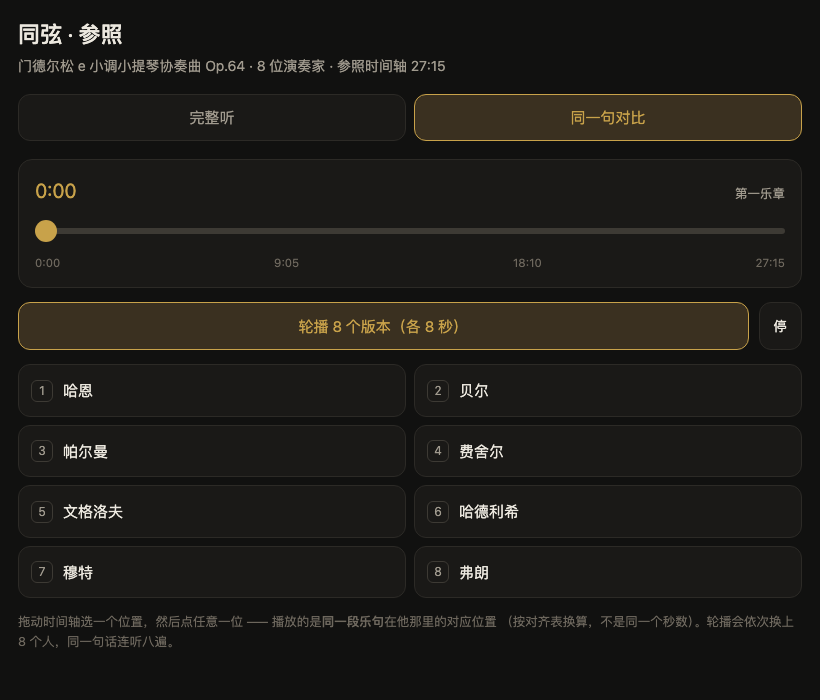
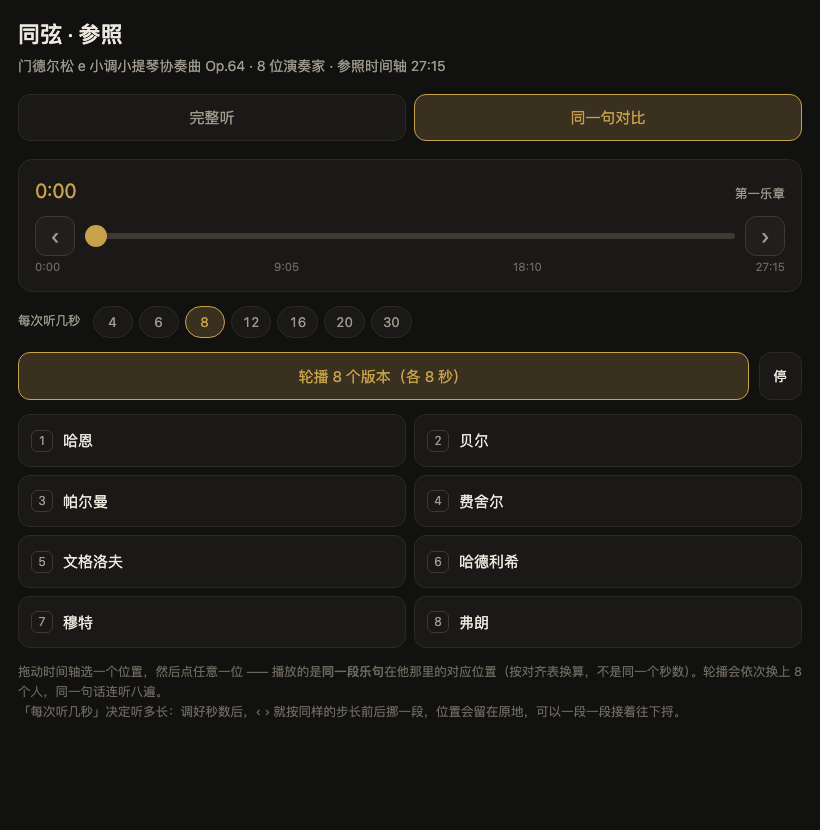
对比页：每段听几秒可选 + ‹ › 按段跳
- 时间轴从 0–100 百分比改成按秒（max=总秒数、step=1）。百分比一格约 16 秒，
  太粗，‹ › 也就没法挪「你要的那几秒」。
- 新增「每次听几秒」七档 chips（4/6/8/12/16/20/30，默认 8），选完记在本机；
  轮播按钮文案同步显示当前秒数。
- 新增 ‹ ›：按当前秒数前后挪一段并留在原地，到两端夹住；轮播中手动挪段先退出轮播。
- check_ref.py 加 3 项静态断言（控件齐全 / 滑杆按秒 / 默认值在预设表里）→ 24 项。
- README 补这两项交互说明，docs/ref-compare.png 换成新版界面。

diff --git a/web/ref.html b/web/ref.html
@@ -76,6 +76,31 @@ input[type=range]::-webkit-slider-thumb {
 }
 .marks { display: flex; justify-content: space-between; font-size: 11.5px; color: var(--faint); margin-top: 2px; }
 
+/* 滑块两侧的按段跳转：40px 见方，拇指够得着，又不会把滑块挤得太短 */
+.steprow { display: flex; align-items: center; gap: 10px; }
+.steprow input[type=range] { flex: 1; min-width: 0; }
+.stepbtn {
+  flex: 0 0 40px; width: 40px; height: 40px; padding: 0;
+  appearance: none; background: var(--panel-2); color: var(--muted);
+  border: 1px solid var(--line-strong); border-radius: 11px;
+  font: inherit; font-size: 22px; line-height: 1; cursor: pointer;
+  display: flex; align-items: center; justify-content: center;
+}
+.stepbtn:active { background: var(--gold-dim); color: var(--gold); border-color: var(--gold); }
+
+/* 「每次听几秒」：只放数字，单位在左边的标签里说一次，省宽度 */
+.durrow { display: flex; align-items: center; gap: 12px; margin-bottom: 14px; flex-wrap: wrap; }
+.durrow .tl-mov { flex: 0 0 auto; }
+.chips { display: flex; gap: 6px; flex-wrap: wrap; }
+.chip {
+  appearance: none; background: var(--panel); color: var(--muted);
+  border: 1px solid var(--line); border-radius: 999px;
+  min-width: 40px; padding: 7px 11px;
+  font: inherit; font-size: 13.5px; line-height: 1.2; cursor: pointer;
+  font-variant-numeric: tabular-nums;
+}
+.chip.on { background: var(--gold-dim); color: var(--gold); border-color: var(--gold); }
+
 .actions { display: flex; gap: 10px; margin-bottom: 14px; }
 .btn {
   flex: 1; appearance: none; background: var(--panel); color: var(--text);
@@ -121,10 +146,8 @@ input[type=range]::-webkit-slider-thumb {
   <video id="player" controls playsinline preload="metadata"></video>
   <p class="hint" id="skipNote"></p>
   <div class="list" id="rows"></div>
-  <p class="hint">点一位就开始播。8 个版本用的是同一份曲目，速度与处理各不相同 ——
-    听的时候留意：揉弦的密度、换弓的棱角、句尾怎么收。<br>
-    有的录像开头是十几秒到半分钟的静场（就位、观众入场），点开时会自动跳过，
-    并提示跳了多少；想从第一帧看就把进度条拖回 0:00。</p>
+  <p class="hint">点一位就开始播。8 个版本用的是同一份曲目，速度与处理各不相同 —— 听的时候留意：揉弦的密度、换弓的棱角、句尾怎么收。<br>
+    有的录像开头是十几秒到半分钟的静场（就位、观众入场），点开时会自动跳过，并提示跳了多少；想从第一帧看就把进度条拖回 0:00。</p>
 </section>
 
 <section id="tab-compare" hidden>
@@ -133,16 +156,24 @@ input[type=range]::-webkit-slider-thumb {
       <span class="tl-pos mono" id="posLabel">0:00</span>
       <span class="tl-mov" id="movLabel">第一乐章</span>
     </div>
-    <input type="range" id="pos" min="0" max="100" value="0" step="1">
+    <div class="steprow">
+      <button class="stepbtn" id="prevSeg" aria-label="上一段">‹</button>
+      <input type="range" id="pos" min="0" max="100" value="0" step="1">
+      <button class="stepbtn" id="nextSeg" aria-label="下一段">›</button>
+    </div>
     <div class="marks" id="marks"></div>
   </div>
+  <div class="durrow">
+    <span class="tl-mov">每次听几秒</span>
+    <div class="chips" id="segs"></div>
+  </div>
   <div class="actions">
-    <button class="btn primary" id="cycle">轮播 8 个版本（各 8 秒）</button>
+    <button class="btn primary" id="cycle">轮播 8 个版本</button>
     <button class="btn small" id="stop">停</button>
   </div>
   <div class="grid" id="picks"></div>
-  <p class="hint">拖动时间轴选一个位置，然后点任意一位 —— 播放的是<b>同一段乐句</b>在他那里的对应位置
-    （按对齐表换算，不是同一个秒数）。轮播会依次换上 8 个人，同一句话连听八遍。</p>
+  <p class="hint">拖动时间轴选一个位置，然后点任意一位 —— 播放的是<b>同一段乐句</b>在他那里的对应位置（按对齐表换算，不是同一个秒数）。轮播会依次换上 8 个人，同一句话连听八遍。<br>
+    「每次听几秒」决定听多长：调好秒数后，‹ › 就按同样的步长前后挪一段，位置会留在原地，可以一段一段接着往下捋。</p>
 </section>
 
 <script type="application/json" id="data">__DATA__</script>
@@ -153,7 +184,8 @@ input[type=range]::-webkit-slider-thumb {
   var P = D.performers;
   var W = D.warp;
   var STEP = D.warpStep || 0.5;
-  var SEG = 8;            // 对比模式每段听几秒
+  var SEG_PRESETS = [4, 6, 8, 12, 16, 20, 30];
+  var segSec = 8;         // 对比模式每段听几秒，chips 可改，记在本机
 
   function mmss(s) {
     s = Math.max(0, Math.round(s));
@@ -254,10 +286,45 @@ input[type=range]::-webkit-slider-thumb {
   var gapTimer = null;
   var cycle = false;
 
+  /* 时间轴按「秒」走，不再用 0–100 的百分比 —— 百分比一格约 16 秒，太粗，
+     ‹ › 也没法按你选的秒数精确挪。总长带小数时 max 取整，末端误差 < 1 秒。 */
+  pos.min = 0;
+  pos.max = Math.round(total);
+  pos.step = 1;
+  pos.value = 0;
+
   picks.innerHTML = P.map(function (p, i) {
     return '<button class="pick" data-i="' + i + '">' +
       '<span class="k mono">' + (i + 1) + '</span><span>' + esc(p.display) + '</span></button>';
   }).join('');
+
+  /* ---------- 每段听几秒 ---------- */
+  var segsEl = document.getElementById('segs');
+  function renderSegs() {
+    segsEl.innerHTML = SEG_PRESETS.map(function (s) {
+      return '<button class="chip' + (s === segSec ? ' on' : '') +
+        '" data-seg="' + s + '" aria-pressed="' + (s === segSec) + '">' + s + '</button>';
+    }).join('');
+    document.getElementById('cycle').textContent =
+      '轮播 ' + P.length + ' 个版本（各 ' + segSec + ' 秒）';
+  }
+  try {
+    var savedSeg = parseInt(localStorage.getItem('ss.segSec'), 10);
+    // 只认预设值：预设表改过之后，旧存档里的数字可能已经不在列表里
+    if (savedSeg && SEG_PRESETS.indexOf(savedSeg) >= 0) segSec = savedSeg;
+  } catch (e) { /* 隐私模式下 localStorage 会抛，忽略 */ }
+  renderSegs();
+
+  segsEl.addEventListener('click', function (ev) {
+    var el = ev.target.closest('[data-seg]');
+    if (!el) return;
+    var s = +el.getAttribute('data-seg');
+    if (s === segSec) return;
+    segSec = s;
+    renderSegs();
+    try { localStorage.setItem('ss.segSec', String(s)); } catch (e) { /* 同上 */ }
+    if (cur >= 0) playOne(cur, null);    // 正在听就按新时长从当前位置重来
+  });
 
   P.forEach(function (p) {
     var a = document.createElement('audio');
@@ -307,7 +374,7 @@ input[type=range]::-webkit-slider-thumb {
 
   function playOne(i, then) {
     stopAudio();
-    var t = (+pos.value / 100) * total;
+    var t = +pos.value;
     var a = audios[i];
     cur = i;
     Array.prototype.forEach.call(picks.children, function (c, k) {
@@ -320,7 +387,7 @@ input[type=range]::-webkit-slider-thumb {
       timer = setTimeout(function () {
         a.pause();
         if (then) then();
-      }, SEG * 1000);
+      }, segSec * 1000);
     };
     if (a.readyState >= 1) go();
     else a.addEventListener('loadedmetadata', function once() {
@@ -355,7 +422,7 @@ input[type=range]::-webkit-slider-thumb {
   document.getElementById('stop').addEventListener('click', stopAll);
 
   function showPos() {
-    var t = (+pos.value / 100) * total;
+    var t = +pos.value;
     posLabel.textContent = mmss(t);
     var m = D.movements.find(function (x) { return t >= x.start && t < x.end; });
     movLabel.textContent = (m && m.label) || '';
@@ -367,6 +434,19 @@ input[type=range]::-webkit-slider-thumb {
     if (cur >= 0) playOne(cur, null);
   });
   showPos();
+
+  /* ‹ › 按「你选的秒数」挪一段，而不是固定跳 30 秒 —— 这样听到哪、停在哪都和前一段对齐，
+     接着往下连听就是连续的曲子了。到两端就夹住，不会越界成负时间。 */
+  function stepBy(delta) {
+    var was = cur;                 // 轮播中手动挪段：先退出轮播，否则链路会错位
+    if (cycle) stopAll();
+    var t = Math.min(total, Math.max(0, (+pos.value) + delta));
+    pos.value = Math.round(t);
+    showPos();
+    if (was >= 0) playOne(was, null);
+  }
+  document.getElementById('prevSeg').addEventListener('click', function () { stepBy(-segSec); });
+  document.getElementById('nextSeg').addEventListener('click', function () { stepBy(+segSec); });
 
   /* ---------- tab ---------- */
   document.querySelector('.tabs').addEventListener('click', function (ev) {

diff --git a/tools/check_ref.py b/tools/check_ref.py
@@ -138,6 +138,30 @@ def main() -> int:
                 if v > 0 and v >= audio.duration(config.DIR_PCM / f"{k}.wav") - 60]
         rows.append(("跳过点未越界", f"越界 {len(over)} 位", not over))
 
+    # ---- 5 对比页交互（按秒滑杆 + ‹ › 按段跳 + 时长 chips）-------------
+    # 这三处是纯前端逻辑，模板一改坏就静默失效，真机上才会发现按钮点了没反应。
+    # 所以只做「结构还在不在」的静态断言，取值合理性靠浏览器实测。
+    need = {'prevSeg': '上一段', 'nextSeg': '下一段', 'segs': '时长选项', 'pos': '时间轴'}
+    miss = [f'{k}（{v}）' for k, v in need.items() if f'id="{k}"' not in html]
+    rows.append(("对比页控件", "缺 " + "、".join(miss) if miss else "‹ › / 滑杆 / 时长 齐全",
+                 not miss))
+
+    # 滑杆必须按秒走。留一个 «/ 100» 就说明模板回退成了百分比版 —— 那样 ‹ › 挪的是一格
+    # 而不是「你选的秒数」，1 格约 16 秒，听感上完全对不上。
+    by_sec = "pos.max = Math.round(total)" in html and "/ 100) * total" not in html
+    rows.append(("滑杆按秒", "max=总秒数，无百分比换算" if by_sec else "仍是 0–100 百分比",
+                 by_sec))
+
+    # 默认时长必须真的在预设表里，否则 chips 一个都不高亮，用户看不出当前是几秒
+    m_pre = re.search(r'SEG_PRESETS\s*=\s*\[([\d,\s]+)\]', html)
+    m_seg = re.search(r'var segSec\s*=\s*(\d+)', html)
+    if m_pre and m_seg:
+        pre = [int(x) for x in m_pre.group(1).split(",") if x.strip()]
+        seg = int(m_seg.group(1))
+        rows.append(("默认时长", f"{seg} 秒，可选 {'/'.join(map(str, pre))}", seg in pre))
+    else:
+        rows.append(("默认时长", "找不到 SEG_PRESETS 或 segSec", False))
+
     width = max(len(r[0]) for r in rows)
     bad = sum(1 for *_, ok in rows if not ok)
     for name, detail, ok in rows:

diff --git a/README.md b/README.md
@@ -222,7 +222,7 @@ volumes:
 两块内容：
 
 - **完整听**：8 位演奏家的完整视频，点谁播谁。看运弓、揉弦、身体律动。
-  有的录像开头是一段**静场**（就位、观众入场），最长的到 36 秒——点开听不到声音，
+  有的录像开头是一段**静场**（就位、观众入场），最长的到 34 秒——点开听不到声音，
   很容易以为坏了。所以构建期会实测每位的「音乐起点」，点开时自动跳过并提示跳了多少，
   想从第一帧看就把进度条拖回 0:00。实测：哈德利希 18 s、文格洛夫 32 s、穆特 34 s，
   其余六位一开就有声。
@@ -230,6 +230,13 @@ volumes:
   他音轨上的对应位置。这里用的是 S2 的 warp 表做换算，不是同一个秒数：
   第 9 分 30 秒在哈恩那里可能落在 9 分 33 秒，在穆特那里是 9 分 26 秒。
   点「轮播」会把 8 个人依次换一遍，同一句话连听八遍。
+  - **每次听几秒**：4 / 6 / 8 / 12 / 16 / 20 / 30 七档，默认 8 秒，选完记在本机
+    （下次打开还是这个值），轮播按钮上也会跟着显示当前秒数。
+  - **‹ › 按段跳**：按你选的秒数前后挪一格，而不是固定跳 30 秒 —— 步长和每次听的长度
+    对齐，一段接一段往下捋时正好首尾相接。到两端会夹住，不会越界成负时间；
+    轮播中手动挪段会先退出轮播，否则链路会错位。
+  - 时间轴本身是**按秒**的（`max` = 总秒数、`step` 1 秒），不是 0–100 的百分比
+    —— 百分比一格约 16 秒，太粗，‹ › 也就没法精确挪「你要的那几秒」。
 
 对比用的音轨是从 `work/pcm/*.wav` 转的 96 kbps（已裁头、已统一响度），
 不是视频里的音轨 —— 视频带片头掌声、响度各不相同，拿来对比反而干扰。
@@ -340,7 +347,7 @@ dist/            产物（不入库）
 |---|---|
 | `fetch_ref.py` | 下 8 个原视频，幂等、按目标画质自愈 |
 | `make_ref.py` | 生成 `dist/ref`（拼接分 P、重封装 `+faststart`、转对比音轨、注入 warp 表） |
-| `check_ref.py` | 参照页自洽检查 21 项 |
+| `check_ref.py` | 参照页自洽检查 24 项（含对比页控件） |
 | `serve.py` | 本机预览（支持 Range），第二参数选 `site` / `ref` |
 | `make_listening.py` | 生成人工试听包（每条依次是 8 位演奏家） |
 | `resolve_meta.py` | 把 b23.tv 短链解析成 BV 号 / 时长 / 分 P / chapters，填 `project.json` 用 |
@@ -354,7 +361,7 @@ dist/            产物（不入库）
 ## 排查
 
 **参照页里某位「没有声音」**：先在「同一句对比」里听同一位。那边用的是裁过头的
-96 kbps 音轨，如果那边有声、只有「完整听」哑，就是录像开头的静场（最长 36 秒），
+96 kbps 音轨，如果那边有声、只有「完整听」哑，就是录像开头的静场（最长 34 秒），
 不是文件坏了；点开时会自动跳过。如果两边都没声，再查文件本身：
 `ffprobe -select_streams a` 有没有音轨、`ffmpeg -v error -i x.mp4 -f null -` 有没有解码错误。
 

diff --git a/.workbuddy/memory/2026-11-15.md b/.workbuddy/memory/2026-11-15.md
@@ -245,3 +245,21 @@ node tests/player_sim.js dist/bank.json 1000 # 出题逻辑 1000 轮模拟
 - ⚠ `python tools/make_ref.py | head -14` 会把进程 SIGPIPE 掉，产物根本没写出来，
   而输出看着一切正常。**看管道输出的命令别加 head**。
 - 提交：`afd328a`。
+
+## 对比页：每段听几秒可选 + ‹ › 按段跳
+
+- 需求：「同一句对比，可以让我设置播放多少秒，并且加一个跳转到上一段和跳转到下一段的按钮」。
+- 时间轴从 0–100 百分比改成**按秒**（`min=0 max=round(total) step=1`）。百分比一格约 16 秒，
+  太粗，‹ › 也就没法挪「你要的那几秒」。改完 `playOne`/`showPos` 里所有 `value/100*total` 都要跟着换。
+- 秒数 chips：4/6/8/12/16/20/30，默认 8，存 `localStorage.ss.segSec`（隐私模式下 setItem 会抛，包 try）。
+  轮播按钮文案跟着显示「各 N 秒」。
+- ‹ › 按 `±segSec` 挪，夹在 `[0, total]`；**轮播中手动挪段要先 stopAll**，否则 playOne 的
+  `then` 链断掉、轮播会停在半路。
+- 验收：`check_ref.py` 加 3 项静态断言（控件齐全 / 滑杆按秒 / 默认值在预设表里）→ 24/24；
+  再用真浏览器点一遍 17 项（含真出声：哈德利希 ref 600 s → 音轨 577.8 s）。
+- ⚠ 无头验证踩到两个坑：
+  1) **页面的 8 个 `<audio>` 是 `createElement` 出来、没插进文档的**，`querySelectorAll('audio')`
+     一个都拿不到，得在 `HTMLMediaElement.prototype.play` 上打补丁截获 `this`。
+  2) **分段回报时 `while not RESULT` 会一收到中间态就退出**，音频那半段永远测不到；要认终态。
+  3) Edge 已在跑时，不带独立 `--user-data-dir` 的新实例只是把标签页甩给现有窗口，进程立刻退出、
+     回报永远不来。另：chromium headless shell 没有 AAC 解码器（真出声那项会假 FAIL），改用 Edge。
